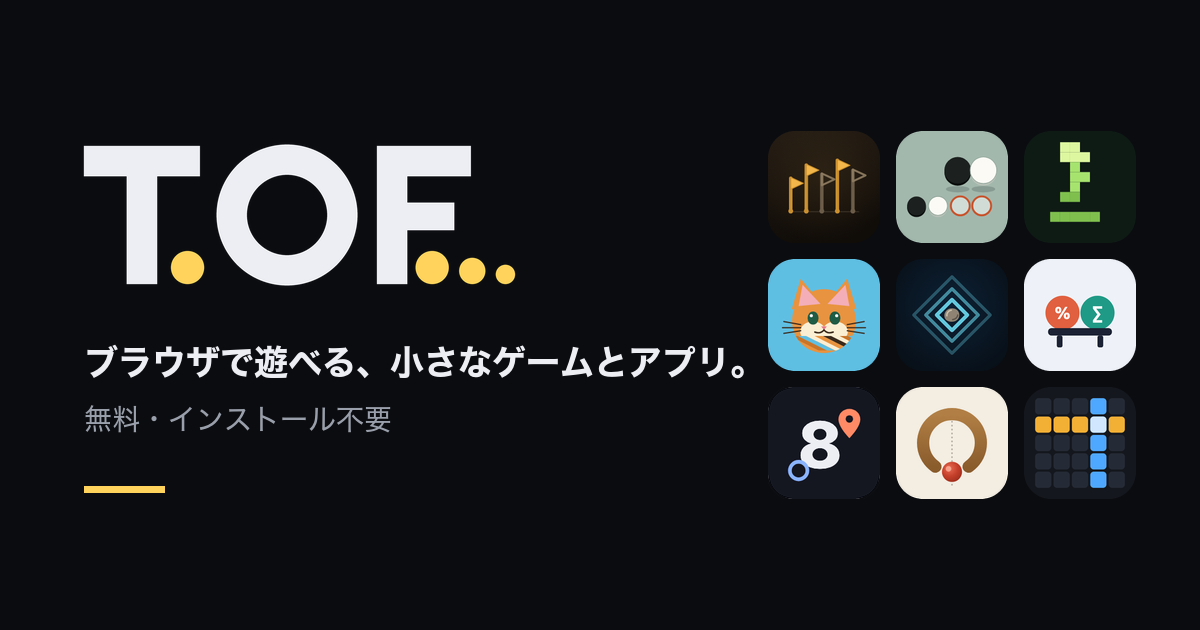
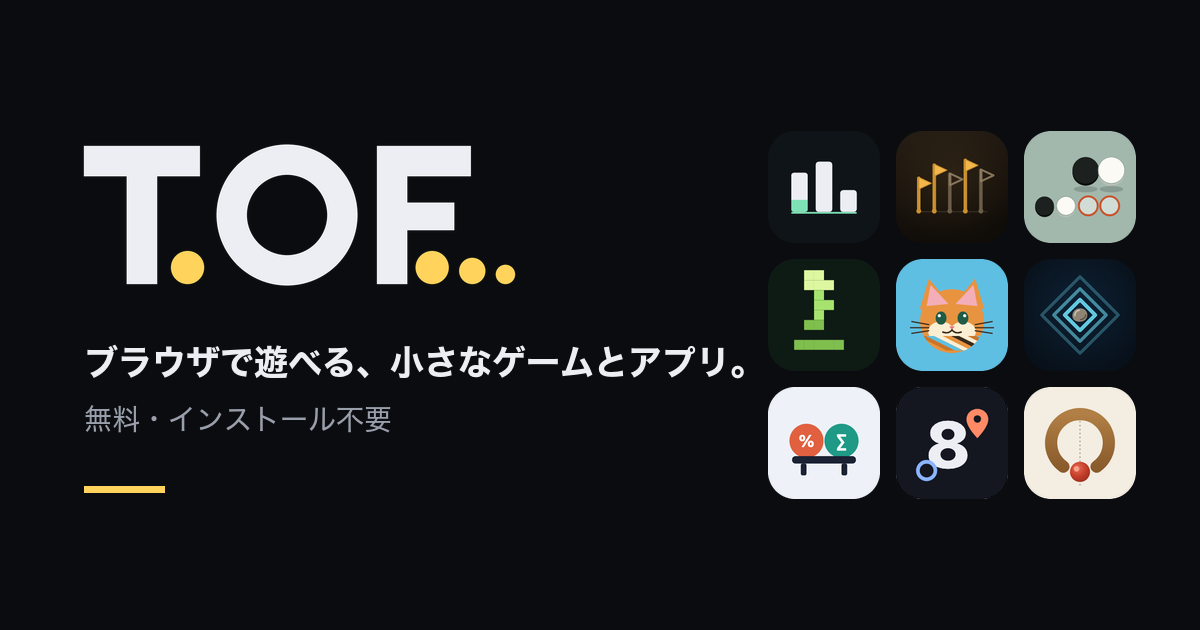
HIGH FLOOR をポータルに追加する

Changed region(s): [[0.6167, 0.181, 0.9558, 0.8143]]

diff --git a/apps.js b/apps.js
@@ -13,6 +13,16 @@
 
 window.TOFO_APPS = [
   {
+    id: 'high-floor',
+    name: 'HIGH FLOOR',
+    title: '一番損する人を出さない割り当て',
+    desc: '部屋割りや係決めで、みんなが持ち点 100 点を行きたい先に配って、1 台の端末を回して入れる。一番点の低い人ができるだけ高くなる組み合わせを、端末の中だけで計算して出す。',
+    category: 'tool',
+    tags: ['割り当て', '公平'],
+    icon: '/high-floor/icons/icon-192.png',
+    color: '#7ee0b5',
+  },
+  {
     id: 'buyout',
     name: 'BUYOUT',
     title: '架空の会社を買い占める放置相場',
